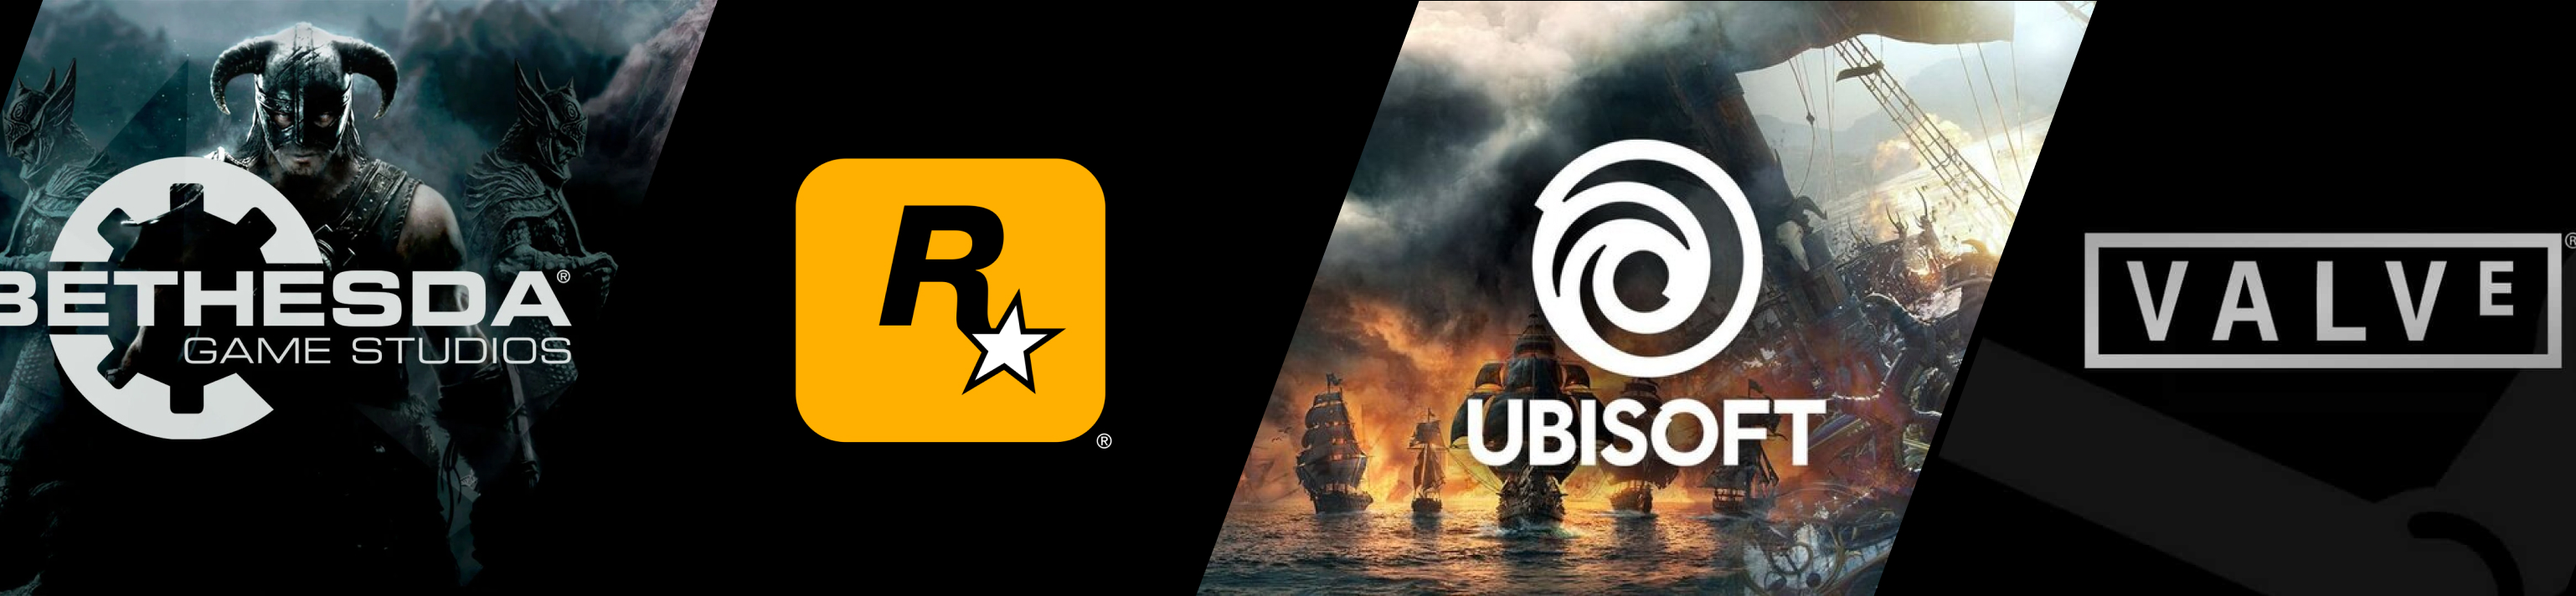
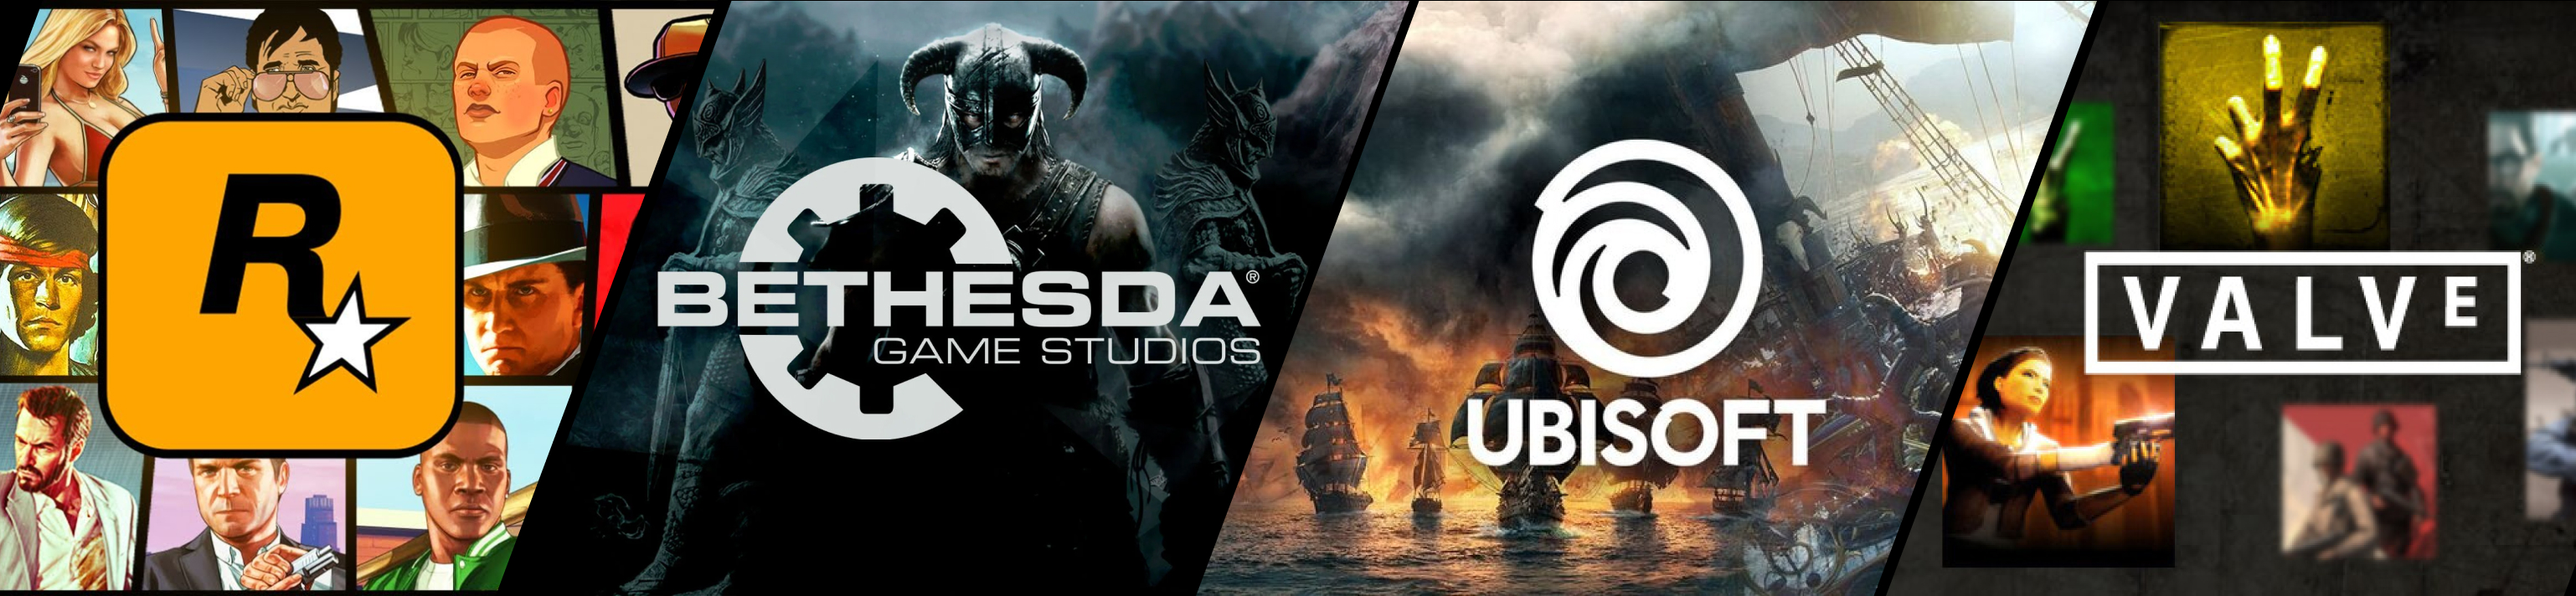
added GameDevelopersPage, GameDevelopersList and GameDeveloperCard, added developers_bg

diff --git a/src/app/developers/developers-list/ui/DevelopersList.tsx b/src/app/developers/developers-list/ui/DevelopersList.tsx
@@ -1,0 +1,39 @@
+import {getData} from "@/api/getData";
+import {IGameDeveloper, IGameDevelopersResponse} from "@/api/types";
+import {CircularProgress, Stack} from "@mui/material";
+import DeveloperCard from "@/app/developers/developers-list/ui/DeveloperCard";
+import {Grid} from "@mui/system";
+import {Suspense} from "react";
+import {Pagination} from "@/components/pagination";
+
+interface IDevelopersListProps {
+  page: number;
+}
+
+export default async function DevelopersList({page}: IDevelopersListProps) {
+  const developersResponse: IGameDevelopersResponse = await getData<IGameDevelopersResponse>({
+    url: 'developers',
+    searchParams: {
+      page: page.toString(),
+      page_size: '20'
+    },
+  })
+  
+  const developers: IGameDeveloper[] = developersResponse.results
+  
+  return (
+    <Stack spacing={3}>
+      <Grid container spacing={2} my={3}>
+        {developers && developers.map((developer: IGameDeveloper) => (
+          <Grid size={{ xs: 12, sm: 6, md: 6, lg: 6, xl: 4 }} key={developer.id}>
+            <Suspense fallback={<CircularProgress/>}>
+              <DeveloperCard name={developer.name} gamesCount={developer.games_count}/>
+            </Suspense>
+          </Grid>
+        ))}
+      </Grid>
+      
+      <Pagination itemsCount={developersResponse?.count} defaultPage={page} />
+    </Stack>
+  )
+}

diff --git a/src/app/developers/developers-list/ui/DeveloperCard.tsx b/src/app/developers/developers-list/ui/DeveloperCard.tsx
@@ -1,0 +1,38 @@
+import {Box, Typography} from "@mui/material";
+import Link from "next/link";
+
+interface IGameDeveloperCardProps {
+  name: string;
+  gamesCount: number;
+}
+
+export default function DeveloperCard({name, gamesCount}: IGameDeveloperCardProps) {
+  return (
+    <Link href={`/developers/${123}`} passHref>
+      <Box
+        padding={2}
+        borderRadius={2}
+        sx={{
+          backgroundColor: "rgba(0, 0, 0, 0.2)",
+          backdropFilter: "blur(10px)",
+          display: "flex",
+          gap: 0.5,
+          flexDirection: "column",
+          opacity: 0.8,
+          minHeight: 'fit-content',
+          height: '100%',
+          '&:hover': {
+            opacity: 1,
+          }
+        }}>
+        <Typography variant="h5" component="h5">
+          {name}
+        </Typography>
+        
+        <Typography variant="subtitle1" component="h6" color="textSecondary">
+          Games: {gamesCount}
+        </Typography>
+      </Box>
+    </Link>
+  )
+}

diff --git a/src/app/developers/page.tsx b/src/app/developers/page.tsx
@@ -1,0 +1,18 @@
+import BgOverlay from "@/components/bg-overlay";
+import DevelopersList from "@/app/developers/developers-list";
+
+export default async function DevelopersPage(props: {
+  searchParams?: Promise<{
+    page?: string;
+  }>;
+}) {
+  const searchParams = await props.searchParams;
+  const currentPage = Number(searchParams?.page) || 1;
+  
+  return (
+    <main style={{width: '100%'}}>
+      <BgOverlay imageName={'/images/developers_bg.webp'}/>
+      <DevelopersList page={currentPage}/>
+    </main>
+  );
+}

diff --git a/src/api/types.ts b/src/api/types.ts
@@ -172,3 +172,18 @@ export interface IGameAchievementsResponse{
   "previous": string,
   "results": IGameAchievement[]
 }
+
+export interface IGameDeveloper {
+  "id": number,
+  "name": string,
+  "slug": string,
+  "games_count": number,
+  "image_background": string
+}
+
+export interface IGameDevelopersResponse {
+  "count": number,
+  "next": string,
+  "previous": string,
+  "results": IGameDeveloper[]
+}

diff --git a/src/components/games-list/ui/GameCard.tsx b/src/components/games-list/ui/GameCard.tsx
@@ -56,7 +56,6 @@ export default function GameCard(
               ))}
             </Stack>
           </CardContent>
-          {/*{id}*/}
         </CardActionArea>
       </Card>
     </Link>

diff --git a/src/app/developers/developers-list/index.ts b/src/app/developers/developers-list/index.ts
@@ -1,0 +1,1 @@
+export {default} from './ui/DevelopersList'
